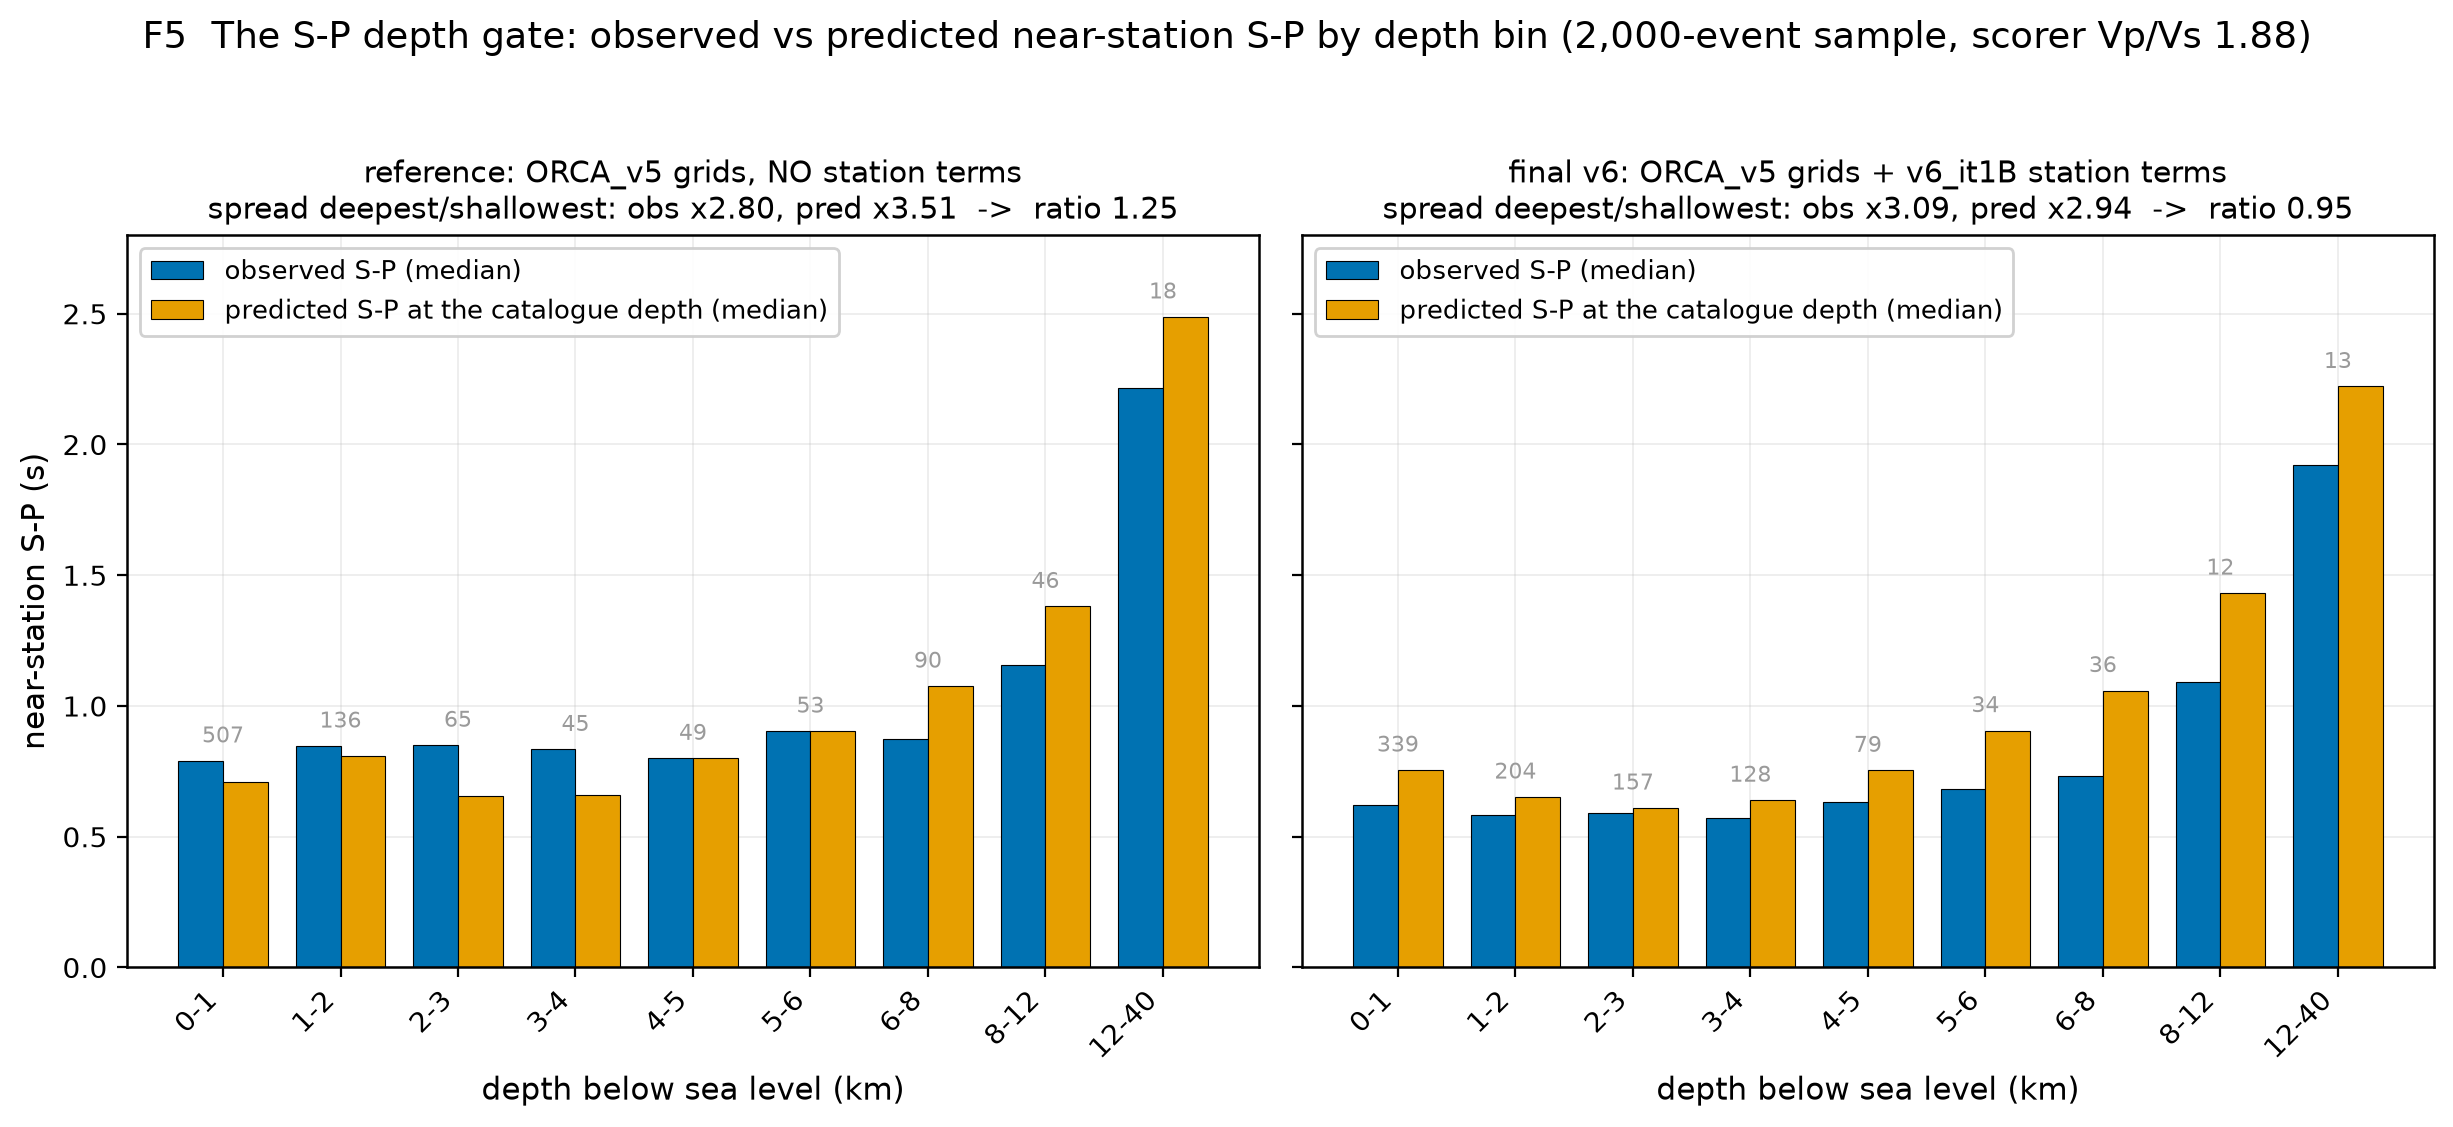
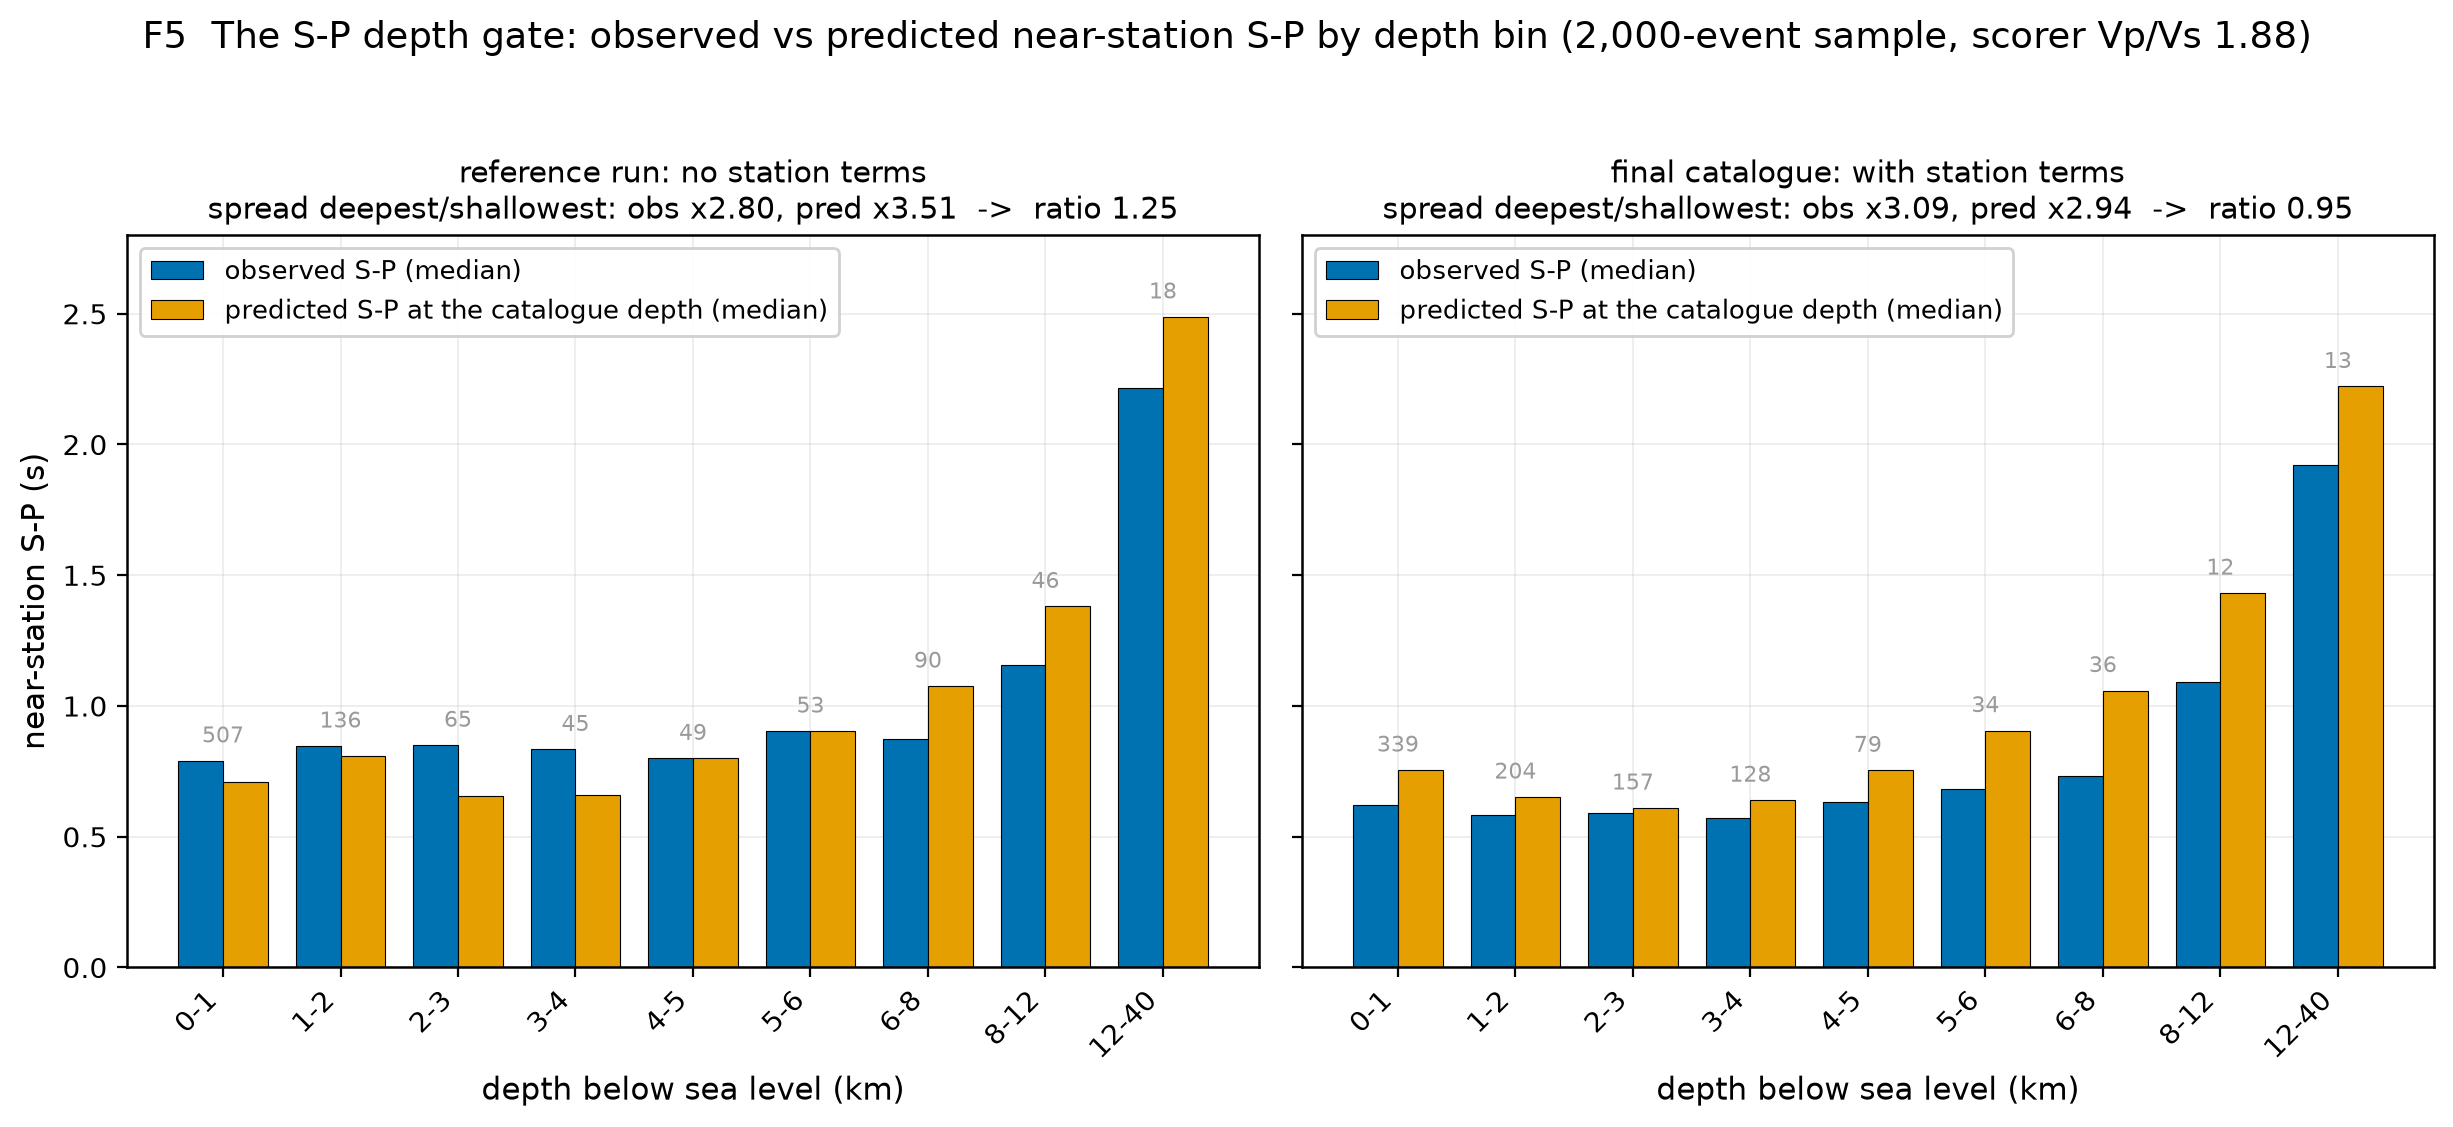
F5 panel titles without version labels

Changed region(s): [[0.6196, 0.1242, 0.8985, 0.1863], [0.1549, 0.1242, 0.4028, 0.1863]]

diff --git a/scripts/69_final_figures.py b/scripts/69_final_figures.py
@@ -631,8 +631,8 @@ def fig5():
     fig, axes = plt.subplots(1, 2, figsize=(12.4, 5.6), sharey=True)
     out = {}
     for ax, (d, ratio, ntot, name) in zip(axes, [
-            (ref, ref_ratio, ref_n, "reference: ORCA_v5 grids, NO station terms"),
-            (fin, fin_ratio, fin_n, "final v6: ORCA_v5 grids + v6_it1B station terms")]):
+            (ref, ref_ratio, ref_n, "reference run: no station terms"),
+            (fin, fin_ratio, fin_n, "final catalogue: with station terms")]):
         lab = [f"{r.lo:g}-{r.hi:g}" for r in d.itertuples()]
         x = np.arange(len(d))
         bw = 0.38
@@ -657,8 +657,8 @@ def fig5():
                  "by depth bin (2,000-event sample, scorer Vp/Vs 1.88)", y=1.0)
     fig.tight_layout(rect=(0, 0, 1, 0.97))
 
-    r0, s0, n0 = out["reference: ORCA_v5 grids, NO station terms"]
-    r1, s1, n1 = out["final v6: ORCA_v5 grids + v6_it1B station terms"]
+    r0, s0, n0 = out["reference run: no station terms"]
+    r1, s1, n1 = out["final catalogue: with station terms"]
     CAPTIONS["F5"] = (
         f"**F5 - the S-P depth gate.** The most nearly model-free depth observable this "
         f"array has is the S-P time at the nearest station, read straight from the picks. "
